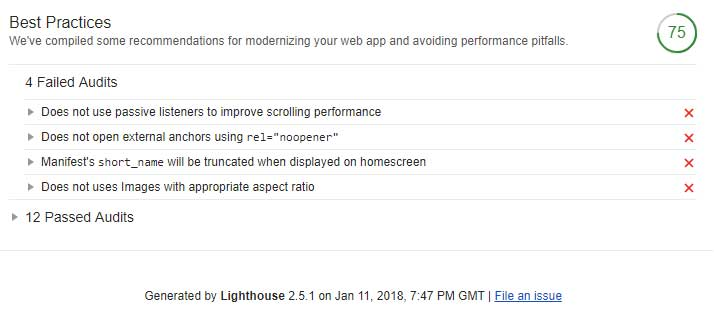
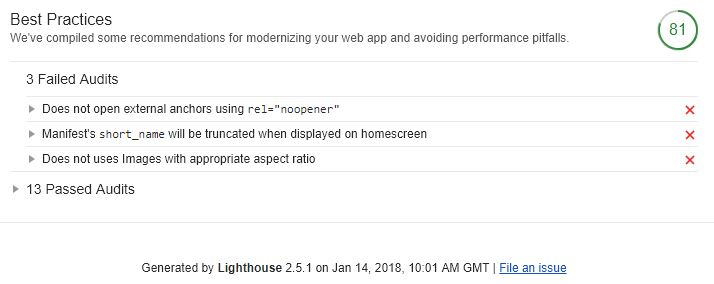
added audits to log

diff --git a/index.html b/index.html
@@ -1557,6 +1557,49 @@ Dan Raymond has been playing games since he was a child, his first entertanement
 
         <div class="row4">
           <div class="wrapper">
+            <h2>Website Audits</h2>
+            <p>In this section audits using google developer tool audit will be performed, this is to check performance, accessibility and good-practice with code writing. It is always a good idea to perform such audits during the development cycle, as it also gives advice to how it can be improved.</p>
+            <p>The final score was one of 3 audits, they were all very close so chose one at random.</p>
+            <figure>
+              <picture>
+                <source srcset="images/audit/audit-score.JPG" type="image/jpg">
+                  <img src="images/audit/audit-score.JPG" alt="score for performance, accesibility and best practices">
+              </picture>
+            </figure>
+
+            <h3>performance</h3>
+            <p>This audit measures how fast the page and all the resources are fully loaded, it shows timing for First meaningful paint (which mean that content is displayed), to consistently interactive (this is where content can be interacted with).</p>
+            <p>It also gives advice on what can be improved and how.</p>
+            <figure>
+              <picture>
+                <source srcset="images/audit/performance.jpg" type="image/jpg">
+                  <img src="images/audit/performance.jpg" alt="score for performance, and improvement advice">
+              </picture>
+            </figure>
+
+            <h3>accesibility</h3>
+            <p>	This is used to discern if the webpage can be read using accessibility tools, like screen readers for example. It checks if elements have discernible names, if they describe contents well, and also checks the colour contrast.</p>
+            <p>This section also gives advice to how it can be improved.</p>
+            <figure>
+              <picture>
+                <source srcset="images/audit/accesibility.jpg" type="image/jpg">
+                  <img src="images/audit/accesibility.jpg" alt="score for accesibility, and improvement advice">
+              </picture>
+            </figure>
+
+            <h3>best practices</h3>
+            <p>This checks how the code was written, and gives advice for improvements.</p>
+            <figure>
+              <picture>
+                <source srcset="images/audit/best-practice.jpg" type="image/jpg">
+                  <img src="images/audit/best-practice.jpg" alt="score for best practices, and improvement advice">
+              </picture>
+            </figure>
+          </div>
+        </div>
+
+        <div class="row5">
+          <div class="wrapper">
             <h2>Conclusion</h2>
             <p>I learned a lot when doing this website, and a lot of things I would be doing differently next time. Most of what I learned is how to optimize my workflow better by preparing designs better before actually coding them, choosing the colour palette, choice of fonts for headings and paragraphs and the layout of the text on page.</p>
             <p>To be honest making the content for the pages took longer than coding the design in HTML and CSS, so I need to improve a lot on this area.</p>

diff --git a/css/main.css b/css/main.css
@@ -1387,14 +1387,23 @@ a:visited {
   }
   #log > .container > .row1 > .wrapper h1 {
     text-decoration: underline;
+    align-self: center;
   }
   #log > .container > div > .wrapper h2 {
-    margin-left: 1em;
+    align-self: center;
+  }
+  #log > .container > div > .wrapper h3 {
     align-self: flex-start;
+    margin-left: 3em;
   }
   #log > .container > div > .wrapper p {
     margin-left: 3em;
     align-self: flex-start;
+  }
+  #log > .container > div > .wrapper code {
+    font-size: 1.3em;
+    background-color: #52ba98;
+    color: var(--lightFontColor);
   }
 
   #log > .container > .row2 {
@@ -1420,6 +1429,15 @@ a:visited {
     background-color: #52ba98;
   }
   #log > .container .row4 .wrapper > * {
+    padding:  0.5em;
+    color: var(--lightFontColor, #fff6a7);
+  }
+
+  #log > .container > .row5 {
+    background-color: #cf5d50;
+    height: 100%;
+  }
+  #log > .container .row5 .wrapper > * {
     padding:  0.5em;
     color: var(--lightFontColor, #fff6a7);
   }
